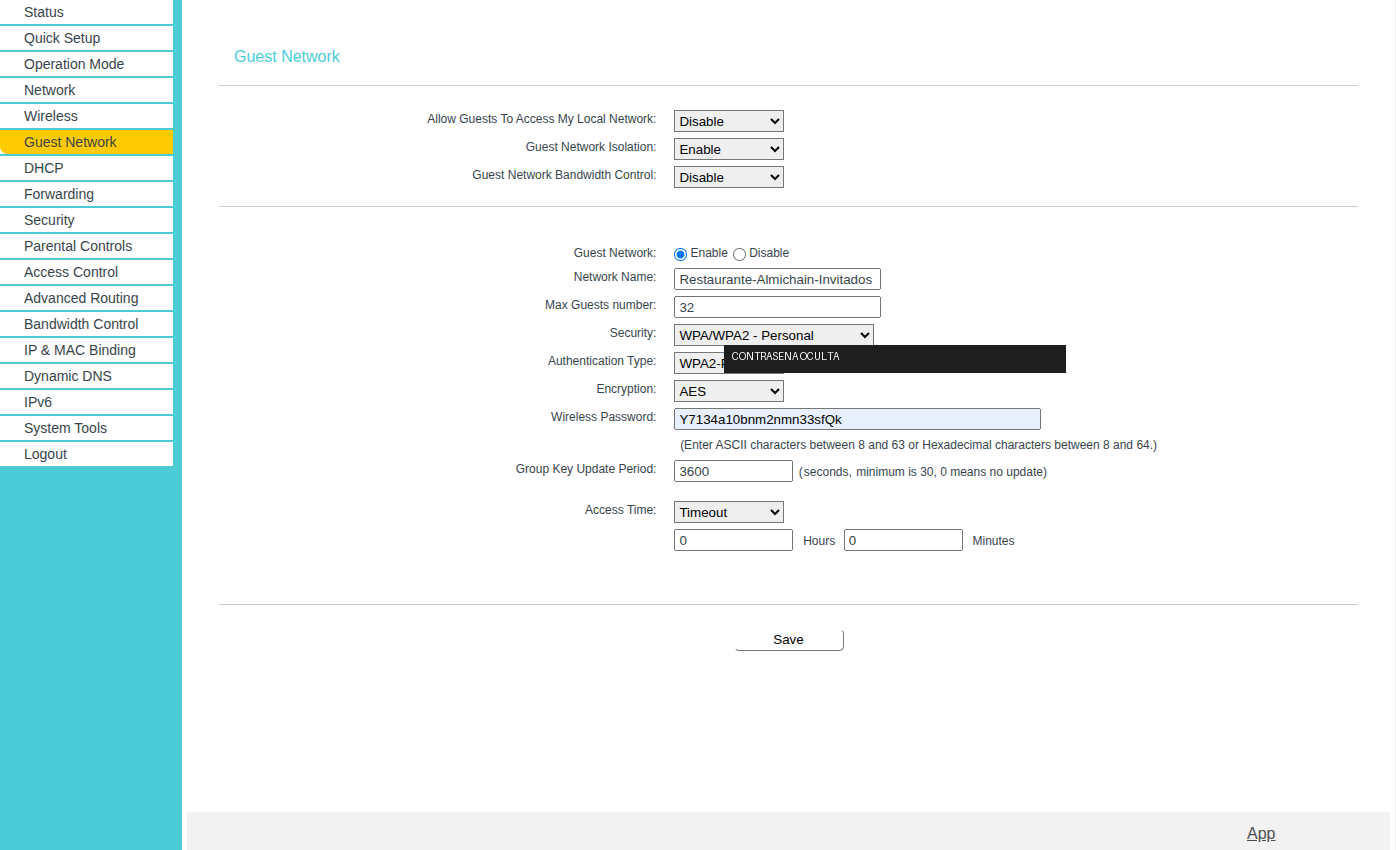
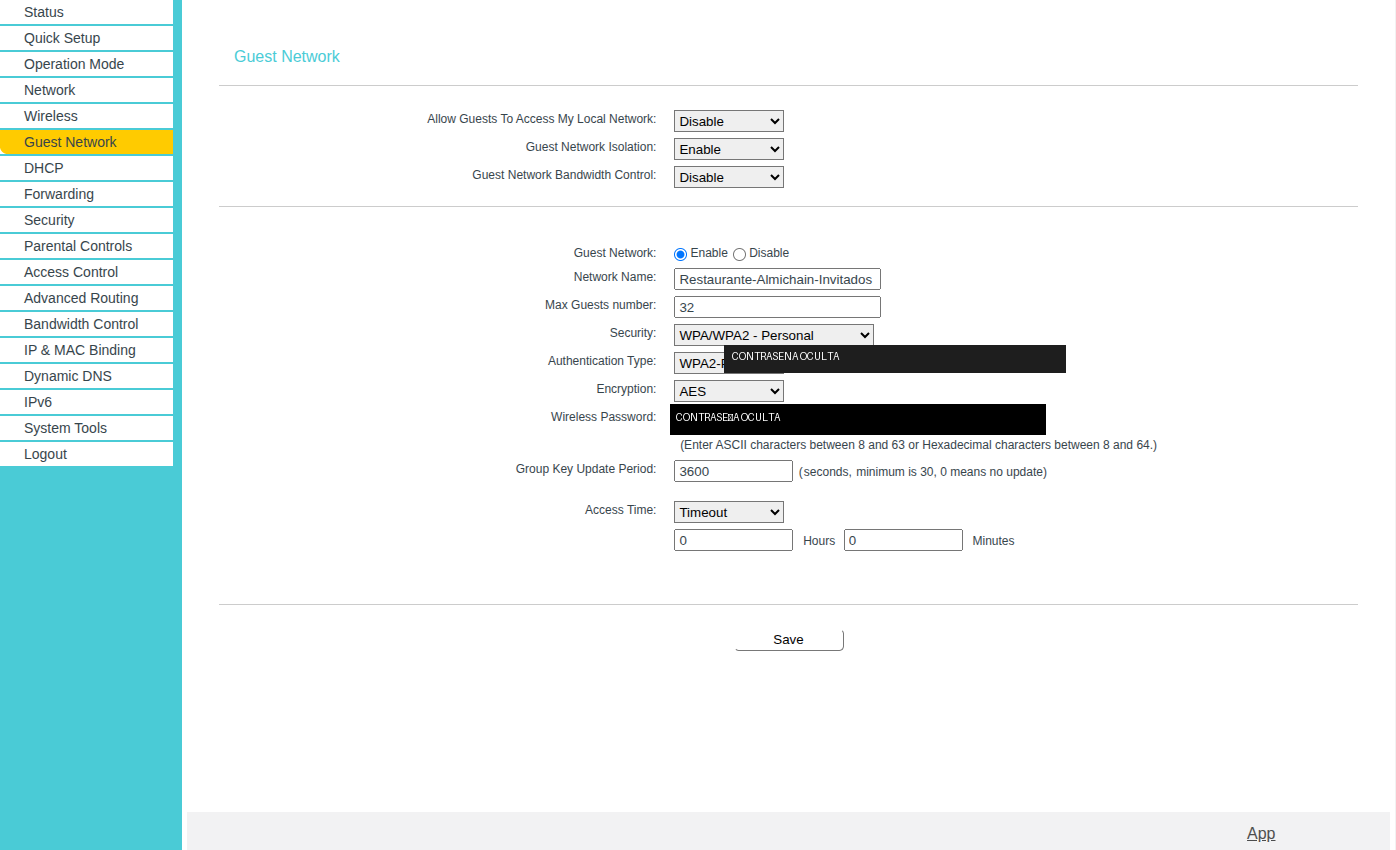
tarea 24: capturas 14-16 tapadas bien y estado al día con la segunda parte de Peio (S-24)

Changed region(s): [[0.462, 0.4588, 0.7701, 0.52]]

diff --git a/docs/seguridad/46-revision-seguridad/DOCUMENTACION.md b/docs/seguridad/46-revision-seguridad/DOCUMENTACION.md
@@ -3,7 +3,7 @@
 - **Bloque:** 10 Seguridad
 - **Responsable:** Adrian
 - **Depende de:** tareas 13, 24, 30, 42 y 52
-- **Estado (29/10/2026):** 🟡 Revisión del repositorio hecha el 26/10 y repasada el 27/10 y el 29/10 con lo que entró después (secciones 1.1 y 1.2): 23 hallazgos; 6 corregidos (S-01, S-05, S-15, S-18, S-21 y S-22), S-11 hecho en el PC del gerente y S-03 ya no aplica. Faltan las comprobaciones en los equipos (sección 5) y que cada responsable cierre los suyos (sección 3).
+- **Estado (29/10/2026):** 🟡 Revisión del repositorio hecha el 26/10 y repasada el 27/10 y el 29/10 con lo que entró después (secciones 1.1 y 1.2): 24 hallazgos; 7 corregidos (S-01, S-04, S-05, S-15, S-18, S-21 y S-22), S-11 hecho en el PC del gerente y S-03 ya no aplica. Faltan las comprobaciones en los equipos (sección 5) y que cada responsable cierre los suyos (sección 3).
 
 ## 1. Qué se ha revisado y cómo
 
@@ -58,7 +58,7 @@ Se leyó lo que entró en `main` del PR #66 al #84 (scripts y configuraciones):
 
 | Gravedad | Hallazgos | Corregidos |
 |---|---|---|
-| Alta | 5 (S-01 a S-05) | 2 (S-01 y S-05); S-03 no aplica |
+| Alta | 6 (S-01 a S-05 y S-24) | 3 (S-01, S-04 y S-05); S-03 no aplica |
 | Media | 9 (S-06 a S-12, S-20 y S-23) | 0; S-11 hecho en el PC del gerente (faltan los TPV) |
 | Baja | 9 (S-13 a S-19, S-21 y S-22) | 4 (S-15, S-18, S-21 y S-22) |
 
@@ -75,9 +75,9 @@ Lo más urgente, por este orden:
 | S-01 | Alta | Tarea 52, `activar-https.sh` | El certificado de Odoo es una CA (`CA:TRUE`) sin límites, y se instala como raíz de confianza en los TPV y en el PC del gerente. Quien robara `odoo.key` del servidor podría firmar certificados de **cualquier** web (banco, correo) y los TPV se los creerían | Añadir `nameConstraints` para que solo valga para `192.168.10.10` y `odoo.almichain.local` | Adrian | ✅ Corregido en el script y probado en la VM de la tarea 52, también en Edge (candado sin avisos) (sección 4.1). Se aplica al generar el certificado en el servidor del equipo |
 | S-02 | Alta | Tareas 33 y 52 | Odoo va por **HTTP** en la LAN: contraseñas de cajeros y del gerente y ventas sin cifrar | Activar el proxy en la `ServidorERP` del equipo e instalar el `.crt` en los TPV | Adrian | ⏳ Probado entero en VM, con TPV provisional y venta sin red (tarea 52, sección 4.2). Falta en el servidor del equipo: ya no espera a nada (la tarea 43 llevó la BD al RAID el 27/10), es seguir el [runbook](../../erp/52-https-odoo/RUNBOOK.md) |
 | S-03 | Alta | Tarea 16, Batocera | Con *Enforce security* desactivado, root tiene siempre la contraseña `linux`, se ve en el menú y sirve también para SSH y Samba | `batocera-settings-set system.security.enabled 1` y contraseña de root aleatoria en KeePassXC. O quedarse con la versión Debian, que ya está endurecida (S-08 lo compara) | Iker | ➖ No aplica: la tarea 51 elige Debian, ya endurecida (27/10) |
-| S-04 | Alta | Tarea 24, router | Se entra al panel como `Admin` con una contraseña de 5 caracteres que parece la de fábrica. El panel va por HTTP y está abierto a toda la LAN. No hay evidencia de que WPS esté apagado | Contraseña de KeePassXC, administración solo desde la MAC del gerente y por cable, y WPS desactivado | Peio | 🟡 Contraseña cambiada y en KeePassXC (26/10). Faltan la MAC y WPS |
+| S-04 | Alta | Tarea 24, router | Se entra al panel como `Admin` con una contraseña de 5 caracteres que parece la de fábrica. El panel va por HTTP y está abierto a toda la LAN. No hay evidencia de que WPS esté apagado | Contraseña de KeePassXC, administración solo desde la MAC del gerente y por cable, y WPS desactivado | Peio | ✅ Contraseña cambiada (26/10), administración solo desde la MAC del PC del gerente y WPS desactivado (29/10, tarea 24). El PIN de WPS se leía en una captura: ver S-24 |
 | S-05 | Alta | Tarea 24, Wi-Fi | La contraseña Wi-Fi tiene 8 cifras y se leía en dos capturas que siguen en el historial de Git (commits `532c87a` y `215eac7`). El repositorio es privado, lo que lo atenúa, pero el profesor y cualquiera con acceso las pueden ver | Cambiarla por una frase de 20 caracteres o más. No hace falta reescribir el historial si se cambia la contraseña | Peio | ✅ Cambiada y en KeePassXC (26/10). Comprobar que la RADIUS de las mismas capturas tampoco sigue en uso |
-| S-06 | Media | Tareas 23 y 24 | La red de invitados no está configurada. La tabla 5.2 de la tarea 23 confía en ella para que clientes y recreativa no lleguen al servidor ni a los TPV | Red `192.168.50.0/24` sin acceso a la LAN y con aislamiento entre clientes; pruebas 3 a 5 de la tarea 23 | Peio | ⏳ Pendiente |
+| S-06 | Media | Tareas 23 y 24 | La red de invitados no está configurada. La tabla 5.2 de la tarea 23 confía en ella para que clientes y recreativa no lleguen al servidor ni a los TPV | Red `192.168.50.0/24` sin acceso a la LAN y con aislamiento entre clientes; pruebas 3 a 5 de la tarea 23 | Peio | 🟡 Red de invitados configurada el 29/10 (sin acceso a la LAN, aislamiento entre clientes) y el móvil no abre el panel del router. Faltan las capturas de ping P3b y P4 (tarea 24) |
 | S-07 | Media | Tarea 24 | El TL-WR841N no tiene WPA3. Queda WPA2-AES, con la clave de grupo sin renovar (`0`) y modo `11bgn` | WPA3 (o WPA2/WPA3) en el Archer C6, renovación de la clave de grupo cada 3600 s y sin 802.11b. Si no se compra, dejarlo como limitación | Peio | ⏳ Pendiente |
 | S-08 | Media | Tarea 33, `preseed-servidor.cfg` | El SSH del servidor admite contraseña (el preseed de la recreativa sí lo cierra y el del servidor no). Además, la única clave autorizada es la del laboratorio (`recreativa-claude`), no la del PC del gerente | Ver sección 4.2 | Iker | ⏳ Pendiente |
 | S-09 | Media | Tareas 33 y 52 | El servidor no tiene `unattended-upgrades` (el preseed no lo instala y Debian sin escritorio no lo trae). Las imágenes `odoo:19.0`, `postgres:17` y `nginx:1.27-alpine` no tienen un procedimiento de actualización | Ver sección 4.2 | Iker | ⏳ Pendiente |
@@ -95,6 +95,7 @@ Lo más urgente, por este orden:
 | S-21 | Baja | Tarea 19, `arduino/mando-joystick/subir.sh` | Instalaba la librería Joystick desde la rama principal de GitHub (con `ENABLE_UNSAFE_INSTALL`), sin fijar versión: cualquier cambio en esa rama entraría en el firmware sin revisar | Fijar la versión con la que se probó (`#v2.1.1`) | Adrian | ✅ Corregido el 27/10 (`LIB_VERSION`). La instalación no se pudo repetir: este PC no tiene `arduino-cli` |
 | S-22 | Baja | Tarea 42, `08-usuarios.sql` | El ejemplo de uso pasaba las contraseñas de `tpv_app` e `informes` escritas en la orden (`-v pass_tpv='...'`), y el comentario decía que así no quedaban en el historial: sí quedan en `~/.bash_history` | Leerlas antes con `read -rs` y pasarlas como variable (mismo criterio que S-15) | Adrian | ✅ Corregido el 29/10 en el script y en la tarea 40 |
 | S-23 | Media | Tarea 44, copia 3b a S3 | La copia a S3 necesita un usuario IAM con claves permanentes, y el Learner Lab no deja crear usuarios IAM: sus credenciales caducan en cada sesión. Con claves de la sesión, la copia nocturna fallaría en cuanto se pare el laboratorio; y unas claves con permisos de todo el laboratorio en el servidor serían peor que no tener la copia | En el laboratorio, dejar la 3b como diseño (la regla 3-2-1 ya la cumple el USB) y no guardar claves del Learner Lab en `s3.env`. En una cuenta de AWS normal: usuario IAM limitado al bucket, como dice la tarea 44 | Iker | ⏳ Pendiente |
+| S-24 | Alta | Tarea 24, capturas del 29/10 | Las capturas 14 y 16 de la red segura dejaban leer la contraseña Wi-Fi nueva (el recuadro tapaba el campo de al lado), la misma en la red del personal y en la de invitados; la 15, el PIN de WPS. Las imágenes antiguas siguen en el historial de Git. Es lo mismo que S-05 | Cambiar la contraseña del personal, poner otra distinta en invitados (KeePassXC) y generar un PIN de WPS nuevo. Revisar cada captura ampliada antes de subirla | Peio | 🟡 Capturas tapadas el 29/10; falta cambiar la contraseña y el PIN |
 
 ## 4. Detalle
 

diff --git a/docs/redes/24-red-segura/DOCUMENTACION.md b/docs/redes/24-red-segura/DOCUMENTACION.md
@@ -3,8 +3,8 @@
 - **Bloque:** 5 Redes
 - **Responsable:** Peio
 - **Reto:** Almi-Chain (ASIR1 2026-27)
-- **Estado:** en curso (faltan la red de invitados, WPA3, WPS y limitar la administración a la MAC del gerente, sección 12). Contraseñas Wi-Fi y de administración cambiadas el 26/10/2026
-- **Fecha:** 23/10/2026 · **Revisión:** 24/10/2026
+- **Estado (29/10/2026):** 🟡 Configuración hecha por Peio el 29/10 ([segunda parte](configurar-red-segura.md)): LAN `192.168.10.0/24`, reserva del PC del gerente, WPS desactivado, red de invitados aislada, administración solo desde el PC del gerente y renovación de la clave de grupo. **Falta:** cambiar la contraseña Wi-Fi, que se leía en dos capturas y es la misma en las dos redes (sección 6), y las capturas de ping de las pruebas P3b y P4. WPA3 no existe en este router: queda como limitación
+- **Fecha:** 23/10/2026 · **Revisión:** 24/10/2026 · **Segunda parte:** 29/10/2026
 - **Depende de:** tarea 23 (plano y direccionamiento)
 
 ## 1. Objetivo
@@ -16,6 +16,9 @@ Configurar y comprobar la seguridad de la red inalámbrica del restaurante, prot
 
 > [!NOTE]
 > **Por qué un TL-WR841N y no el Archer C6.** Los Archer C6 del presupuesto (tarea 10) no se han comprado; el TL-WR841N es el router que había disponible para practicar. Sirve para demostrar el procedimiento (administración, cifrado, firewall), pero **no es el router del diseño**: su LAN está en `192.168.1.0/24` y no en `192.168.10.0/24` (tarea 23), y no tiene WPA3. La configuración definitiva se repite en el Archer C6 (sección 12).
+
+> [!NOTE]
+> **Este documento es la primera parte (23-26/10), con la red de prácticas `192.168.1.0/24`.** La configuración definitiva del 29/10, con la red del proyecto (tarea 23), está en [configurar-red-segura.md](configurar-red-segura.md). Las secciones 9, 10 y 12 recogen ya el resultado de las dos.
 
 ## 2. Comprobación de conectividad
 
@@ -69,6 +72,8 @@ El panel recomienda WPA2-PSK con cifrado AES.
 > **Contraseñas expuestas (corregido el 24/10/2026).** En la primera versión de las figuras 7 y 8 el recuadro negro tapaba otra zona y **se leían la contraseña Wi-Fi y la contraseña RADIUS**. Ahora están tapadas encima del campo correcto, pero las imágenes antiguas **siguen en el historial de Git**, así que:
 > 1. Hay que **cambiar la contraseña Wi-Fi** de ese router si sigue en uso. Además era débil (8 cifras), contra la norma del proyecto. La nueva, una frase de 20 caracteres o más generada con KeePassXC.
 > 2. gitleaks no analiza imágenes: cada captura se revisa a ojo, ampliada, antes de subirla.
+>
+> **Volvió a pasar el 29/10.** En las capturas 14 y 16 de la segunda parte el recuadro tapaba el campo de al lado: se leía la contraseña Wi-Fi nueva (**la misma en la red del personal y en la de invitados**). En la 15 se leía el PIN de WPS. Las imágenes se taparon bien el mismo día, pero las anteriores siguen en el historial de Git, así que hay que: cambiar la contraseña Wi-Fi del personal y poner **otra distinta** a la de invitados (las dos en KeePassXC), y generar un PIN nuevo en *Wireless → WPS* (WPS sigue desactivado). Hallazgo S-24 de la [tarea 46](../../seguridad/46-revision-seguridad/DOCUMENTACION.md).
 
 ![Primera configuración de seguridad Wi-Fi](imagenes/07-wifi-seguridad-primera.png)
 
@@ -121,7 +126,7 @@ El panel solicita credenciales de administración. La contraseña administrativa
 
 ## 9. Red de invitados
 
-El menú incluye **Guest Network**, pero las once capturas no muestran la página de configuración final de esa red. Para completar esta parte hay que añadir una captura donde aparezcan:
+**Hecha el 29/10** ([segunda parte, sección 6](configurar-red-segura.md#6-red-de-invitados)): `Restaurante-Almichain-Invitados`, WPA2-PSK con AES, sin acceso a la red local, aislamiento entre invitados y renovación de la clave cada 3600 s. Un móvil de la red de invitados no abre el panel del router. Lo que se pedía:
 
 1. Un SSID independiente, por ejemplo `Restaurante-Almichain-Invitados`.
 2. Una contraseña diferente de la red principal.
@@ -141,10 +146,11 @@ El menú incluye **Guest Network**, pero las once capturas no muestran la págin
 | WPA3 | No disponible en las capturas ni en el panel mostrado |
 | Firewall SPI | Revisado en el panel |
 | Protección DoS | Disponible y revisada |
-| Red de invitados aislada | Pendiente de configuración y evidencia |
-| WPS | Sin evidencia de que esté desactivado |
-| Contraseña de administración | Cambiada por Peio el 26/10/2026 y guardada en KeePassXC. Falta limitar la administración a la MAC del gerente |
-| Contraseña Wi-Fi | Cambiada por Peio el 26/10/2026 y guardada en KeePassXC: la de las capturas antiguas ya no vale |
+| Red de invitados aislada | Configurada el 29/10 (acceso a la LAN desactivado y aislamiento activado); el móvil no abre el panel. Faltan las capturas de ping (P3b y P4) |
+| WPS | Desactivado (29/10). Hay que generar un PIN nuevo: el actual se leía en una captura |
+| Contraseña de administración | Cambiada por Peio el 26/10/2026 y guardada en KeePassXC. Administración solo desde la MAC del PC del gerente (29/10) |
+| Contraseña Wi-Fi | Cambiada el 26/10 y otra vez el 29/10, pero la del 29/10 se leía en las capturas 14 y 16 y es la misma que la de invitados: **hay que cambiarla** (sección 6) |
+| LAN del proyecto | `192.168.10.1/24`, DHCP `.100-.199` y reserva `192.168.10.20` para el PC del gerente (29/10) |
 
 ## 11. Conclusión
 
@@ -157,8 +163,11 @@ Se ha verificado la conectividad, se ha revisado la administración local y remo
 
 - [x] Cambiar la contraseña Wi-Fi expuesta del TL-WR841N (26/10/2026, guardada en KeePassXC).
 - [x] Cambiar la contraseña de administración (26/10/2026, guardada en KeePassXC).
-- [ ] Limitar la administración a la MAC del PC del gerente; captura.
-- [ ] Desactivar WPS; captura.
-- [ ] Repetir la configuración en el Archer C6: LAN `192.168.10.0/24`, reservas de la tarea 23, WPA3 (o WPA2/WPA3), clave de grupo con renovación y modo sin 802.11b.
-- [ ] Configurar la red de invitados (`192.168.50.0/24` si el router lo permite) con aislamiento entre clientes y hacer las pruebas 3 a 5 de la [tarea 23, sección 6](../23-plano-direccionamiento.md#6-cómo-se-comprueba).
+- [x] Limitar la administración a la MAC del PC del gerente; captura (29/10).
+- [x] Desactivar WPS; captura (29/10).
+- [ ] Cambiar la contraseña Wi-Fi del personal (se leía en las capturas 14 y 16) y poner otra distinta en la de invitados; generar un PIN de WPS nuevo.
+- [ ] Capturas de ping desde la red de invitados: al PC del gerente (P3b) y entre dos móviles (P4).
+- [x] LAN en `192.168.10.0/24`, reserva del gerente y renovación de la clave de grupo, en el TL-WR841N (29/10).
+- [ ] En el local, con el Archer C6: WPA3 (o WPA2/WPA3) y modo sin 802.11b, que el TL-WR841N no tiene (limitación).
+- [x] Configurar la red de invitados con aislamiento entre clientes (29/10). El TL-WR841N no le da una subred propia en el panel: el aislamiento es interno (tarea 23, apartado 4.4).
 - [ ] Comprobar en la tarea 25 si la red de invitados pasa por el enlace WDS al router 2. Si no pasa, documentarlo y corregir los diagramas (tarea 11 y LOGICA_RETO).

diff --git a/docs/gestion/gantt.md b/docs/gestion/gantt.md
@@ -30,7 +30,7 @@ Ordenadas por estado y fecha de fin. *Qué falta* sale de revisar el documento d
 | # | Tarea | Tipo | Responsable | Fin | Estado | Qué falta | Evidencia |
 |---|---|---|---|---|---|---|---|
 | 17 | Pruebas de rendimiento MAME antes/después (VM de 1 núcleo y 1 GB) | Software | Eneko.P | 30/10 | En curso | Antes y después hechos en una VM de 2 núcleos y 1,5 GB. En la VM de 1 núcleo y 1 GB (la del enunciado) solo hay 3 medidas de antes; faltan las de después y medir jugando. El 24/10 optimizar-arcade.sh mantiene las actualizaciones de seguridad (a las 5:00). El 26/10 pasa de Iker a Eneko.P (reparto de carga). El 26/10 (tarea 51) se ve que no se conoce la contraseña de tecnico en Recreativa-1GB: hay que ponerle una nueva desde la consola antes de medir. 29/10: lo que falta en 1 GB (medidas de después y jugando) se mide en la tarea 54, en Recreativa-53, para no hacerlo dos veces; la 17 se cierra con esas medidas. | [DOCUMENTACION.md](../../docs/arcade/17-rendimiento-mame/DOCUMENTACION.md) |
-| 24 | Configurar red segura (WPA3; invitados; firewall) | Físico | Peio | 30/10 | En curso | Hecho en un TL-WR841N: administración remota cerrada; WPA2-AES; SPI y anti-DoS; contraseñas Wi-Fi y de administración cambiadas y en KeePassXC (26/10). Faltan la red de invitados aislada con su prueba; WPA3 (Archer C6); WPS; limitar la administración a la MAC del gerente. | [DOCUMENTACION.md](../../docs/redes/24-red-segura/DOCUMENTACION.md) |
+| 24 | Configurar red segura (WPA3; invitados; firewall) | Físico | Peio | 30/10 | En curso | Hecho en un TL-WR841N: administración remota cerrada; WPA2-AES; SPI y anti-DoS; contraseñas Wi-Fi y de administración cambiadas y en KeePassXC (26/10). Faltan la red de invitados aislada con su prueba; WPA3 (Archer C6); WPS; limitar la administración a la MAC del gerente. 29/10 (Peio, configurar-red-segura.md): LAN 192.168.10.0/24, reserva del gerente, WPS desactivado, red de invitados aislada, administración solo desde la MAC del gerente y renovación de la clave de grupo. Falta: cambiar la contraseña Wi-Fi (se leía en las capturas 14 y 16, tapadas el 29/10; S-24) y poner otra distinta en invitados; capturas de ping P3b y P4. WPA3: limitación del TL-WR841N. | [DOCUMENTACION.md](../../docs/redes/24-red-segura/DOCUMENTACION.md) |
 | 18 | Monitorización de recursos de la recreativa | Software | Eneko.P | 02/11 | En curso | Scripts hechos y probados en Linux; documento reescrito para Debian el 24/10 (antes era para Batocera). Falta ejecutarlos en la VM de 1 GB durante una partida y guardar los CSV. El 26/10 pasa de Adrian a Eneko.P (reparto de carga). 29/10: la ejecución en la VM de 1 GB se hace dentro de la tarea 54 (usa monitor-recreativa.sh). | [18-monitorizacion-recreativa.md](../../docs/arcade/18-monitorizacion-recreativa.md) |
 | 25 | WDS con segundo router y pruebas de cobertura | Físico | Peio | 03/11 | En curso | Guía lista (docs/redes/25-wds/DOCUMENTACION.md): WDS en el Archer C6, pruebas W1-W10 (sobre todo que los clientes del router 2 sigan aislados de la LAN) y cobertura y velocidad antes y después en 5 puntos. Si la red de invitados no pasa por el enlace WDS: corregir los diagramas (tareas 11 y 23). 27/10 (Peio): prueba de laboratorio con dos TL-WR841N en una red de pruebas (TP-Link_AF60; 192.168.1.0/24): el enlace WDS funciona (el PC del router 2 recibe IP del router 1 y le hace ping) y el DHCP del router 2 está apagado. Falta repetirlo con la red del proyecto y la de invitados (tarea 24), las pruebas W3-W10 y las medidas de antes y después. | [DOCUMENTACION.md](../../docs/redes/25-wds/DOCUMENTACION.md) |
 | 5 | Repo con estructura y gitleaks; commits de todos | Gestión | Adrian | 04/11 | En curso | Estructura, .gitignore y gitleaks hechos: CI en verde y gitleaks local sin fugas en 81 commits (23/10). Tienen commits 5 de 6 personas; falta Eneko.P (Anexo IX). 27/10: fin movido al 4/11 (corte técnico). | [gitleaks.yml](../../.github/workflows/gitleaks.yml) |

diff --git a/docs/redes/24-red-segura/configurar-red-segura.md b/docs/redes/24-red-segura/configurar-red-segura.md
@@ -90,7 +90,7 @@ En `Guest Network` se configuró una red independiente:
 | Aislamiento entre invitados | Activado |
 | Renovación de clave de grupo | `3600` segundos |
 
-La contraseña de invitados es diferente de la contraseña del personal y no se publica en el repositorio.
+La contraseña de invitados no se publica en el repositorio. **Corrección (29/10):** en las capturas 14 y 16 se veía que era la misma que la del personal; hay que poner dos distintas ([DOCUMENTACION.md, sección 6](DOCUMENTACION.md#6-seguridad-wi-fi)).
 
 ![Red de invitados](imagenes/16-red-invitados.png)
 
@@ -181,4 +181,4 @@ La principal limitación es la ausencia de WPA3-SAE en el TP-Link TL-WR841N. Par
 
 ## 13. Seguridad de las evidencias
 
-Las imágenes preparadas para GitHub ocultan contraseñas y el PIN WPS. El PDF original no debe subirse al repositorio porque contiene credenciales visibles. Como esas credenciales aparecieron en las capturas originales, se recomienda rotarlas antes de dar la tarea por finalizada.
+Las imágenes preparadas para GitHub ocultan contraseñas y el PIN WPS. **El 29/10 no los ocultaban:** en la 14 y la 16 el recuadro tapaba el campo de al lado y en la 15 se leía el PIN; se taparon bien el mismo día y la contraseña y el PIN hay que cambiarlos, porque las versiones anteriores siguen en el historial de Git. El PDF original no debe subirse al repositorio porque contiene credenciales visibles. Como esas credenciales aparecieron en las capturas originales, se recomienda rotarlas antes de dar la tarea por finalizada.
